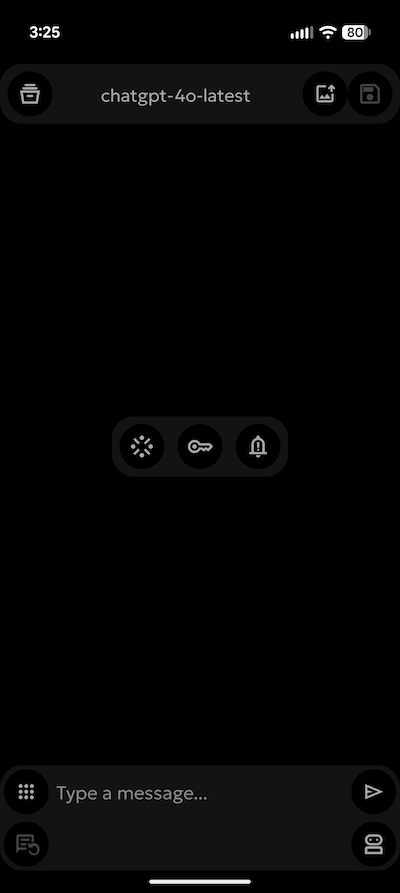
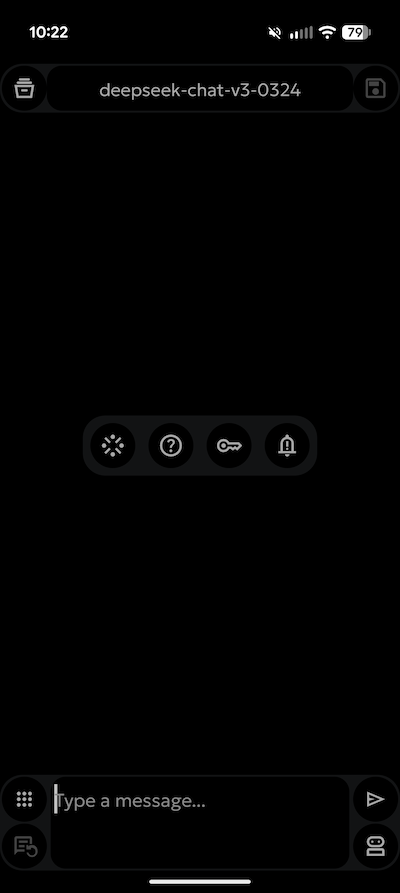
Prepare for release v1.2.2

diff --git a/app/src/main/java/io/github/stardomains3/oxproxion/HelpFragment.kt b/app/src/main/java/io/github/stardomains3/oxproxion/HelpFragment.kt
@@ -1,0 +1,218 @@
+package io.github.stardomains3.oxproxion
+
+import android.graphics.Color
+import android.os.Bundle
+import android.view.View
+import android.widget.TextView
+import androidx.fragment.app.Fragment
+import com.google.android.material.appbar.MaterialToolbar
+import io.noties.markwon.AbstractMarkwonPlugin
+import io.noties.markwon.Markwon
+import io.noties.markwon.core.MarkwonTheme
+import io.noties.markwon.ext.strikethrough.StrikethroughPlugin
+import io.noties.markwon.ext.tables.TablePlugin
+import io.noties.markwon.ext.tasklist.TaskListPlugin
+import io.noties.markwon.html.HtmlPlugin
+import io.noties.markwon.image.coil.CoilImagesPlugin
+import io.noties.markwon.linkify.LinkifyPlugin
+import io.noties.markwon.syntax.Prism4jThemeDarkula
+import io.noties.markwon.syntax.SyntaxHighlightPlugin
+import io.noties.prism4j.Prism4j
+
+class HelpFragment : Fragment(R.layout.fragment_help) {
+
+    private lateinit var markwon: Markwon
+
+    override fun onViewCreated(view: View, savedInstanceState: Bundle?) {
+        super.onViewCreated(view, savedInstanceState)
+
+        val toolbar = view.findViewById<MaterialToolbar>(R.id.toolbar)
+        toolbar.setNavigationOnClickListener {
+            parentFragmentManager.popBackStack()
+        }
+
+        val helpContentTextView = view.findViewById<TextView>(R.id.helpContentTextView)
+
+        val prism4j = Prism4j(ExampleGrammarLocator())
+        val theme = Prism4jThemeDarkula.create()
+        val syntaxHighlightPlugin = SyntaxHighlightPlugin.create(prism4j, theme)
+
+        markwon = Markwon.builder(requireContext())
+            .usePlugin(HtmlPlugin.create())
+            .usePlugin(LinkifyPlugin.create())
+            .usePlugin(StrikethroughPlugin.create())
+            .usePlugin(syntaxHighlightPlugin)
+            .usePlugin(TablePlugin.create(requireContext()))
+            .usePlugin(TaskListPlugin.create(requireContext()))
+            .usePlugin(CoilImagesPlugin.create(requireContext()))
+            .usePlugin(object : AbstractMarkwonPlugin() {
+                override fun configureTheme(builder: MarkwonTheme.Builder) {
+                    builder
+                        .codeTextColor(Color.LTGRAY)
+                        .codeBackgroundColor(Color.DKGRAY)
+                        .codeBlockBackgroundColor(Color.DKGRAY)
+                        .blockQuoteColor(Color.BLACK)
+                        .isLinkUnderlined(true)
+                }
+            })
+            .build()
+
+        val markdownContent = """
+            # oxproxion Help Guide
+
+            Welcome! This guide will help you understand how to use the **oxproxion** app.
+
+            **oxproxion** is an open-source Android app for chatting with OpenRouter LLMs, supporting both text and image inputs for compatible models.
+
+            ---
+
+            ## 🚀 Getting Started
+
+            To use the app, you need an **OpenRouter API key with credit**.
+            *   Get and fund your key at: <br>[https://openrouter.ai/](https://openrouter.ai/)
+            <!---->
+            *   Find model info and pricing at: <br>[https://openrouter.ai/models/](https://openrouter.ai/models/)
+
+            ---
+
+            ## 🔗 Important Links
+
+            *   **GitHub Repo**: <br>[stardomains3/oxproxion](https://github.com/stardomains3/oxproxion)
+            <!---->
+            *   **Support the Dev**: <br>[Buy Me a Coffee](https://www.buymeacoffee.com/oxproxion) ☕
+
+            ---
+
+            ## ✨ Core Features
+
+            *   **Multi-Model Support**: Easily switch between different LLM models.
+            *   **Save & Load Chats**: Save sessions and continue conversations later.
+            *   **Import & Export**: Manage your chat histories.
+            *   **Streaming Responses**: Choose between real-time streaming or full responses.
+            *   **Chat with Images**: Use models that support vision.
+            *   **System Messages**: Customize the AI's behavior and persona.
+            *   **Modern Tech**: Built for Android using native tools like Kotlin, Jetpack, Coroutines, and Ktor.
+
+            ---
+
+            ## 📱 Main Chat Interface
+
+            ### Interacting with Messages
+            *   **Copy AI Response**: Tap the **robot icon** to copy the AI's message.
+            *   **Copy User Message**: Tap the **user icon** to copy your message.
+            *   **Share AI Response**: Tap the **share icon** to send the AI's text to other apps.
+            *   **Create PDF of Response**: **Long-press** the **robot icon** to save just that response as a PDF in your device's Downloads folder.
+
+            ### Sending Prompts
+            *   **Text Box**: Enter your prompt.
+            *   **Send Button**: Send your prompt to the LLM. **Long-press** it to clear the text box.
+            *   **Stop Button**: During an api call, press the Stop Button to end the api call.
+            *   **Image Button**: Appears for vision models. Click to attach a single image.
+            
+            ### Other Buttons
+            *   **Clear Chat**(button on bottom left): Starts a new chat with the current model.
+            *   **System Message Button**: Opens your library of system messages.
+            *   **Saved Chats**: Opens a list of your saved conversations.
+            *   **Save Chat**: Saves the chat. You can name it yourself or let the AI generate a title.
+            
+            ---
+
+            ##  Menu
+
+            Press the **menu button** (the one on the lower left with nine dots) to show or hide the main menu. It also hides if you tap outside of it.
+
+            ### Contextual Buttons (Enabled during a chat)
+            *   **PDF Button**: Creates a PDF of the entire chat in your downloads folder.
+            
+            *   **Copy Chat**: Copies the full conversation to your clipboard.
+
+            ### Standard Buttons (Always in the menu)
+            *   **Stream Button**: Toggles streaming responses on or off.
+            *   **API Key Button**: Opens a dialog to enter your OpenRouter API key. **Long-press** to check your remaining credits.
+            *   **Notification Button**: Activates a foreground service to prevent the app from closing in the background and enables custom notification sounds.
+
+            ---
+
+            ## 📂 App Screens
+
+            ### Model Selection
+            *   **Access**: Tap the **model name** at the top of the chat screen.
+            *   **"Select Model" Screen**: Shows your list of available models. The default is **Maverick Llama**. Tap a model in the list to change the model for the current chat.
+            *   **Vision**: If the model supports image upload the icon to the left of the name will show an image icon.
+            *   **Add a Model**: Use the floating action button to add a custom model.
+            *   **Manage**: **Long-press** a model to **Edit** or **Delete** it.
+            *   **Discover Models**: Tap the **cloud icon** to go to the **"OpenRouter Models"** screen.
+
+            ### "OpenRouter Models" Screen
+            *   **Sort**: Toggle between **Alphabetical** and **Newest**.
+            *   **Add to Your List**: Tap any model to add it to your "Select Model" screen.
+            *   **View Model Info**: **Long-press** a model to open its info page on the OpenRouter website.
+            *   **Refresh**: Tap the **refresh icon** to get the latest list of models from OpenRouter.
+
+            ### "Saved Chats" Screen
+            *   **Import/Export**: Use the menu bar icons to manage your saved chats.
+            *   **Manage**: **Long-press** a chat to **Rename** or **Delete** it.
+
+            ### "System Message" Screen
+            *   **Defaults**: Comes with "Default", "Spelling and Grammar corrector", and "Summarizer".
+            *   **Add New**: Use the floating action button to create your own.
+            *   **Manage**: **Long-press** a message to **Edit** or **Delete** it.
+            *   **Import/Export**: Use the menu bar icons to manage your System Messages.
+
+            ---
+
+            ## ℹ Other Info
+
+            *   An internet connection is required.
+            *   The app is licensed under the Apache License 2.0.
+            *   This app is not affiliated with OpenRouter.ai.
+            *   Costs are incurred with using OpenRouter models. Familiarize yourself with model costs at [https://openrouter.ai/models/](https://openrouter.ai/models/)
+            *   Markdown content is well-supported in AI response chat messages.
+            *   If you want to save your saved chats and/or System Messages, be sure to export them before you uninstall the app, otherwise they will be gone for good.
+            *   Imports never overwrite: System Messages skip duplicates by title, while Saved Chats add new entries even when titles match, leaving all existing items intact.
+            
+            ## What You Can Do With oxproxion
+
+            oxproxion puts the power of multiple AI models at your fingertips. With custom system messages, you can tailor your experience for virtually any task. Here are some popular use cases:
+
+            ### Language Translation
+            Seamlessly translate conversations by setting a system message like:  
+            "You are a professional translator. Translate all responses to [target language] while maintaining the original meaning and tone."
+
+            ### Content Summarization
+            Get concise overviews of lengthy articles with:  
+            "You are a professional summarizer. Provide a clear, 3-paragraph summary of the following text, highlighting key points, evidence, and conclusions."
+
+            ### Image Analysis & Learning
+            Upload images and engage with them using vision models to get detailed descriptions, identify objects, explain concepts in diagrams, or learn from visual content.
+
+            ### Code Development & Debugging
+            Receive expert assistance with programming tasks across multiple languages. Ask for explanations, bug fixes, or new feature implementations with context-aware help.
+
+            ### Personalized Companionship
+            Create meaningful interactions with a virtual companion using:  
+            "You are my supportive companion who shows genuine interest in my life, and provides thoughtful, caring responses."
+
+            ### Educational Tutoring
+            Get personalized learning experiences across subjects with:  
+            "You are a patient tutor who explains complex concepts in simple terms with relevant examples, checks for understanding, and adapts to my learning pace."
+
+            ### Creative Content Generation
+            Craft stories, poems, scripts, or marketing copy with specific styles, tones, and requirements by setting appropriate system instructions.
+
+            ### Research & Analysis
+            Conduct deeper investigations on topics with assistance in finding information, analyzing data, and synthesizing findings into coherent insights.
+
+            ### Language Practice
+            Improve your language skills through conversation with a patient partner who corrects mistakes gently and explains grammar rules contextually. "You are a friendly language tutor who helps me practice [target language]. Correct my mistakes gently, explain grammar rules in simple terms, and respond using vocabulary appropriate for an intermediate learner. Keep the conversation natural and engaging."
+
+            ### Professional Development
+            Get tailored career advice, resume feedback, interview preparation, and industry-specific guidance to advance your professional journey. "You are a career coach who provides actionable advice on resume improvement, interview preparation, and professional growth. Be specific, constructive, and tailored to my industry and experience level."
+            
+            ### Share Chats
+            Use the PDF button and share you chats with family, friends and co-workers.
+        """.trimIndent()
+
+        markwon.setMarkdown(helpContentTextView, markdownContent)
+    }
+}

diff --git a/app/src/main/java/io/github/stardomains3/oxproxion/ChatFragment.kt b/app/src/main/java/io/github/stardomains3/oxproxion/ChatFragment.kt
@@ -74,6 +74,7 @@ class ChatFragment : Fragment(R.layout.fragment_chat) {
             }
         }
     }
+    private lateinit var helpButton: MaterialButton
     private var selectedImageBytes: ByteArray? = null
     private var selectedImageMime: String? = null
     private lateinit var plusButton: MaterialButton
@@ -131,7 +132,7 @@ class ChatFragment : Fragment(R.layout.fragment_chat) {
         previewImageView = view.findViewById(R.id.previewImageView)
         removeAttachmentButton = view.findViewById(R.id.removeAttachmentButton)
         headerContainer = view.findViewById(R.id.headerContainer)
-
+        helpButton = view.findViewById(R.id.helpButton)
         arguments?.getString("shared_text")?.let { sharedText ->
             setSharedText(sharedText)
             arguments?.remove("shared_text") // To prevent re-processing
@@ -611,7 +612,12 @@ class ChatFragment : Fragment(R.layout.fragment_chat) {
                 showMenu()
             }
         }
-
+        helpButton.setOnClickListener {
+            parentFragmentManager.beginTransaction()
+                .replace(R.id.fragment_container, HelpFragment())
+                .addToBackStack(null)
+                .commit()
+        }
         saveapiButton.setOnClickListener {
             val dialog = SaveApiDialogFragment()
             dialog.show(childFragmentManager, "SaveApiDialogFragment")
